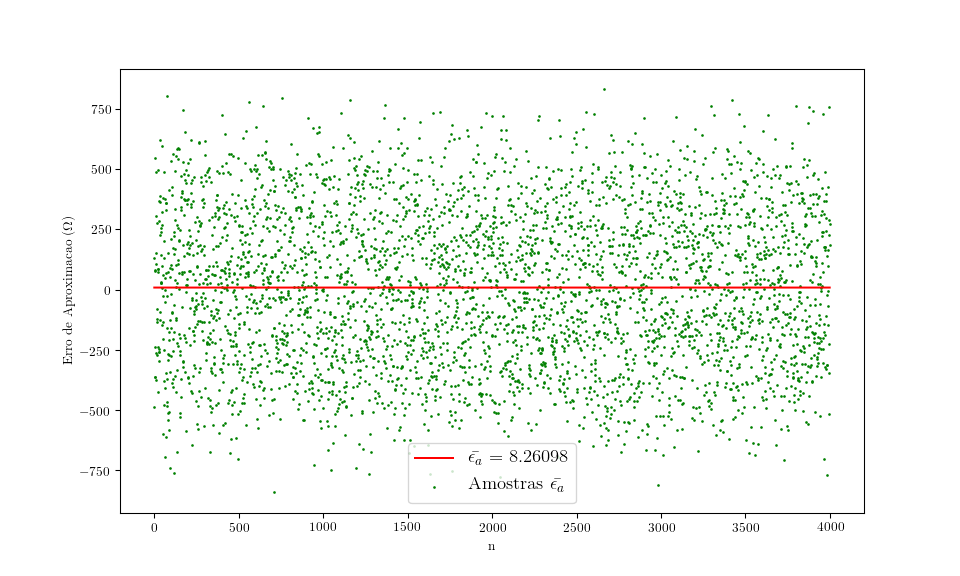
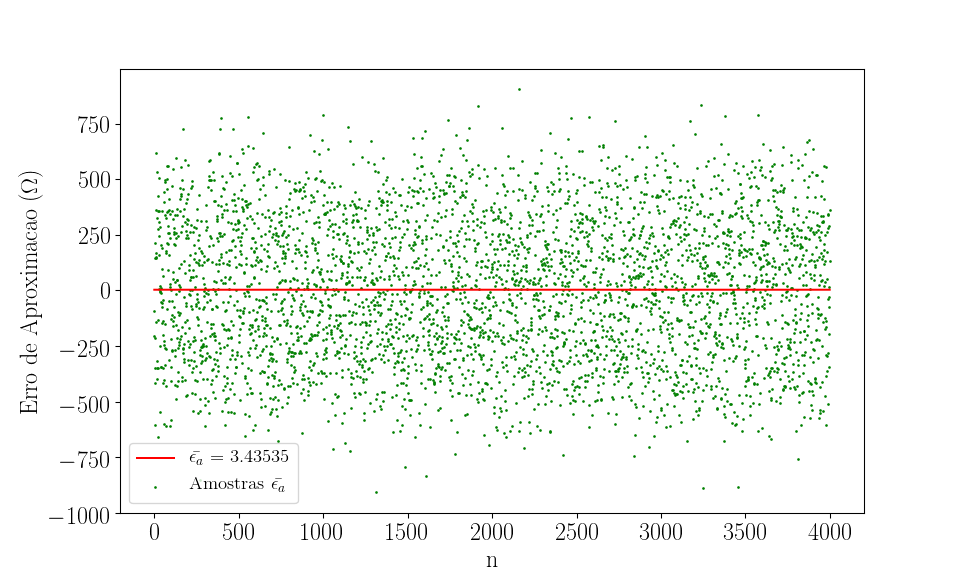
Update corrections

diff --git a/main.py b/main.py
@@ -28,7 +28,7 @@ approxErr.simulateApproximationError(4000, re_simulate = False, plot = False)
 ### Function Models - Storage Retrieval
 
 # CHANGE HERE!!!
-model_required = 1
+model_required = 3
 models = json.load(open("models.json","r"))
 for model in models:
     if model["id"] == model_required:
@@ -110,7 +110,7 @@ error_covariance    = array(Filtered.P)
 ### PLOTTING ###
 ################
 
-
+plt.rc('font', size=12) 
 imgDirectory = './media/' + model['name'] + '/'
 for i in range(len(xTrue[0])):
 

diff --git a/InstrumentGenerator.py b/InstrumentGenerator.py
@@ -201,7 +201,7 @@ class ApproximationError(RandomVariable):
     def plotApproximationError(self, error):
 
         plt.rc('text', usetex=True)
-        plt.rc('font', family='serif')
+        plt.rc('font', family='serif', size=18)
 
         t = np.arange(0, len(error))
         fig, ax1 = plt.subplots(figsize = (10,6))
